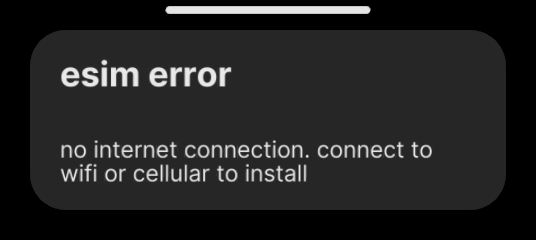
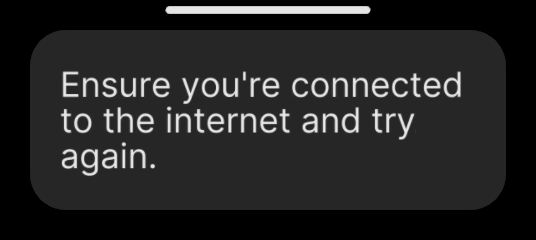
Show standard untitled internet dialog

Changed region(s): [[0.0896, 0.4375, 0.806, 0.7583], [0.0896, 0.2333, 0.8657, 0.4375]]

diff --git a/capture.py b/capture.py
@@ -77,18 +77,16 @@ class Camera:
 qrtex=qrcode.make_texture('LPA:1$example.invalid$DEMO-NOT-A-REAL-ACTIVATION-CODE')
 e.CameraView=lambda *args:Camera()
 e.ui_state=SimpleNamespace(params=SimpleNamespace(put_bool=lambda *args:None))
-# Drive both connectivity outcomes through the actual add-profile handler.
-workers=[];callbacks=[];captured=[]
-manager._enqueue=callbacks.append
-with patch.object(e.threading, 'Thread', side_effect=lambda target,daemon:SimpleNamespace(start=lambda:workers.append(target))), patch.object(gui_app, 'push_widget', side_effect=captured.append), patch.object(e.urllib.request, 'urlopen', side_effect=OSError('offline')):
+# Drive both network-state outcomes through the actual add-profile handler.
+captured=[]
+e.ui_state.sm={'deviceState':SimpleNamespace(networkType=e.log.DeviceState.NetworkType.none)}
+with patch.object(gui_app, 'push_widget', side_effect=captured.append):
  ui._on_add_profile()
- draw(ui,15);save('03b-checking-internet')
- assert not captured
- workers.pop()();callbacks.pop()()
  assert len(captured)==1 and isinstance(captured[0],e.BigDialog)
 show(captured.pop(),'16-no-internet')
-with patch.object(e.threading, 'Thread', side_effect=lambda target,daemon:SimpleNamespace(start=lambda:workers.append(target))), patch.object(gui_app, 'push_widget', side_effect=captured.append), patch.object(e.urllib.request, 'urlopen', return_value=MagicMock()):
- ui._on_add_profile();workers.pop()();callbacks.pop()()
+e.ui_state.sm['deviceState'].networkType=e.log.DeviceState.NetworkType.wifi
+with patch.object(gui_app, 'push_widget', side_effect=captured.append):
+ ui._on_add_profile()
  assert len(captured)==1 and isinstance(captured[0],e.QRScannerDialog)
 scanner=captured.pop()
 show(scanner,'04-camera-starting')
